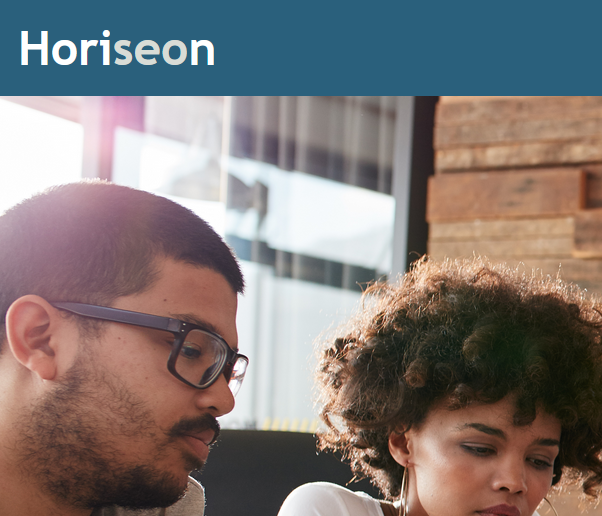
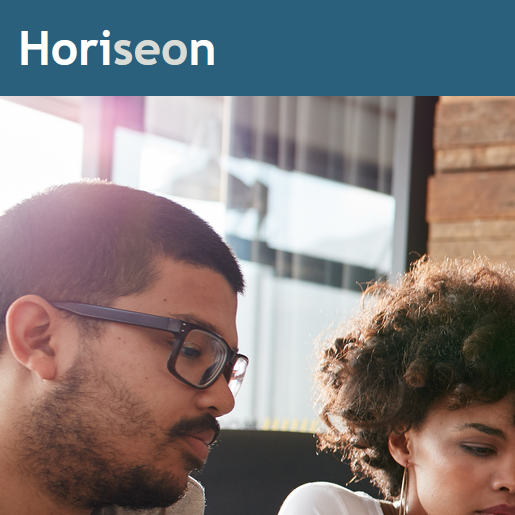
added more background css

diff --git a/index.html b/index.html
@@ -47,12 +47,16 @@
         <section class="projects">
             <h2 id="projects">Projects</h2>
                 <div>
-                    <a href="https://myersdg.github.io/horiseonRefactor/">
-                        <img src="./assets/images/horiseon snippet.png" alt="Refactor">
-                    </a>
-                    <a href="https://myersdg.github.io/myersPortfolio/">
-                        <img src="./assets/images/portfolio.png" alt="Portfolio">
-                    </a>
+                    <div class="refactor">
+                        <a href="https://myersdg.github.io/horiseonRefactor/">
+                            <img src="./assets/images/horiseon snippet.png" alt="Refactor">
+                        </a>
+                    </div>
+                    <div class="portfolio">
+                        <a href="https://myersdg.github.io/myersPortfolio/">
+                            <img src="./assets/images/portfolio.png" alt="Portfolio">
+                        </a>
+                    </div>
                 </div>
         </section>
         <section class="music">

diff --git a/assets/style.css b/assets/style.css
@@ -54,7 +54,7 @@ a:hover {
 }
 
 img {
-    max-width: 100%;
+    max-width: 75%;
     height: auto;
     object-fit: contain;
 }
@@ -69,6 +69,11 @@ img {
     height: auto;
 }
 
+.about {
+    margin: 25px;
+    background-color: antiquewhite;
+}
+
 .about h2 {
     display: flex;
     justify-content: center;
@@ -79,6 +84,11 @@ img {
     justify-content: center;
 }
 
+.projects {
+    margin: 25px;
+    background-color: azure;
+}
+
 .projects h2 {
     display: flex;
     justify-content: center;
@@ -87,6 +97,23 @@ img {
 .projects div {
     display: flex;
     justify-content: space-around
+}
+
+.refactor {
+    min-width: 150px;
+    height: auto;
+    flex-grow: 0
+}
+
+.portfolio {
+    min-width: 150px;
+    height: auto;
+    flex-grow: 0
+}
+
+.music {
+    margin: 25px;
+    background-color: beige;
 }
 
 .music h2 {
